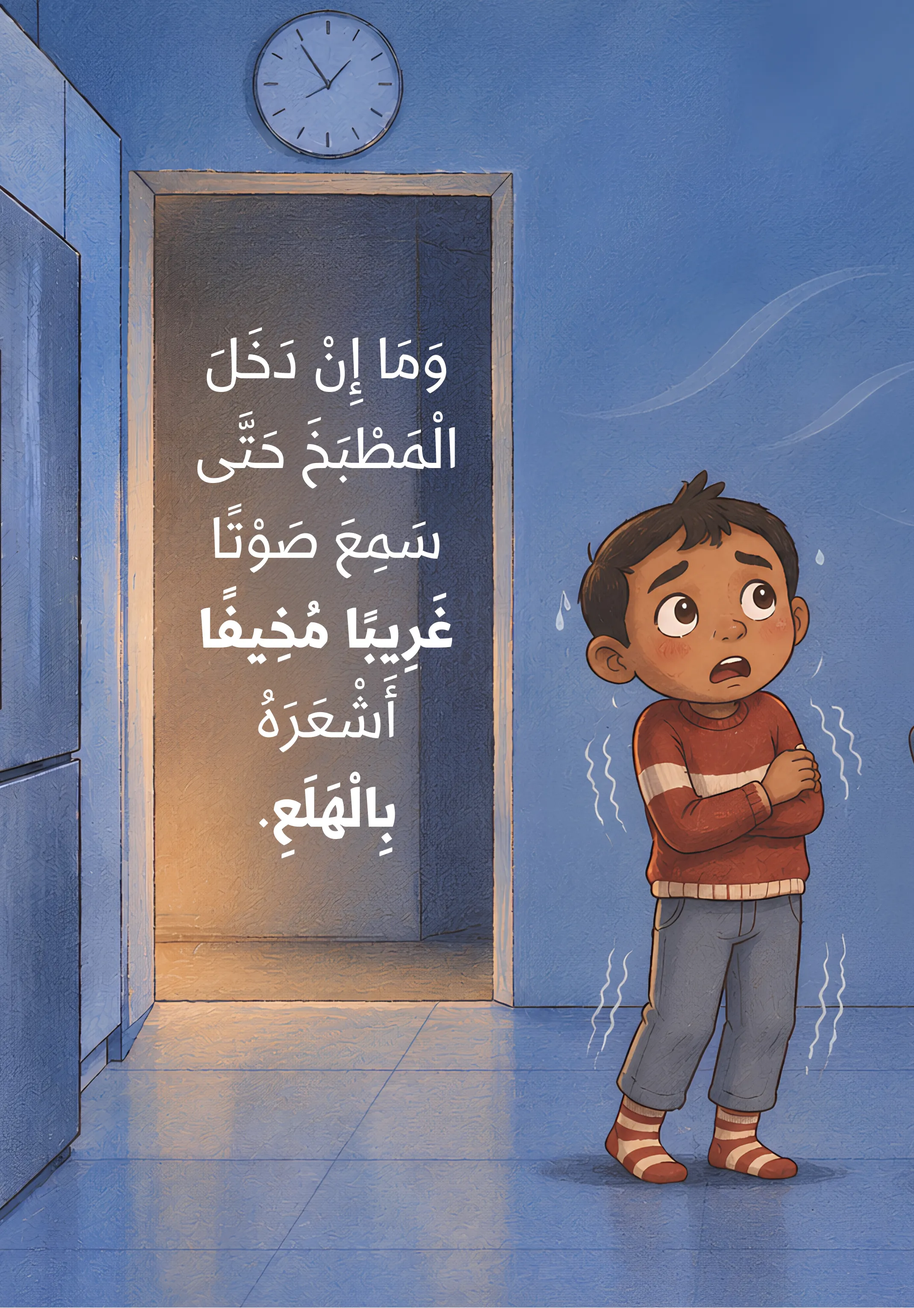
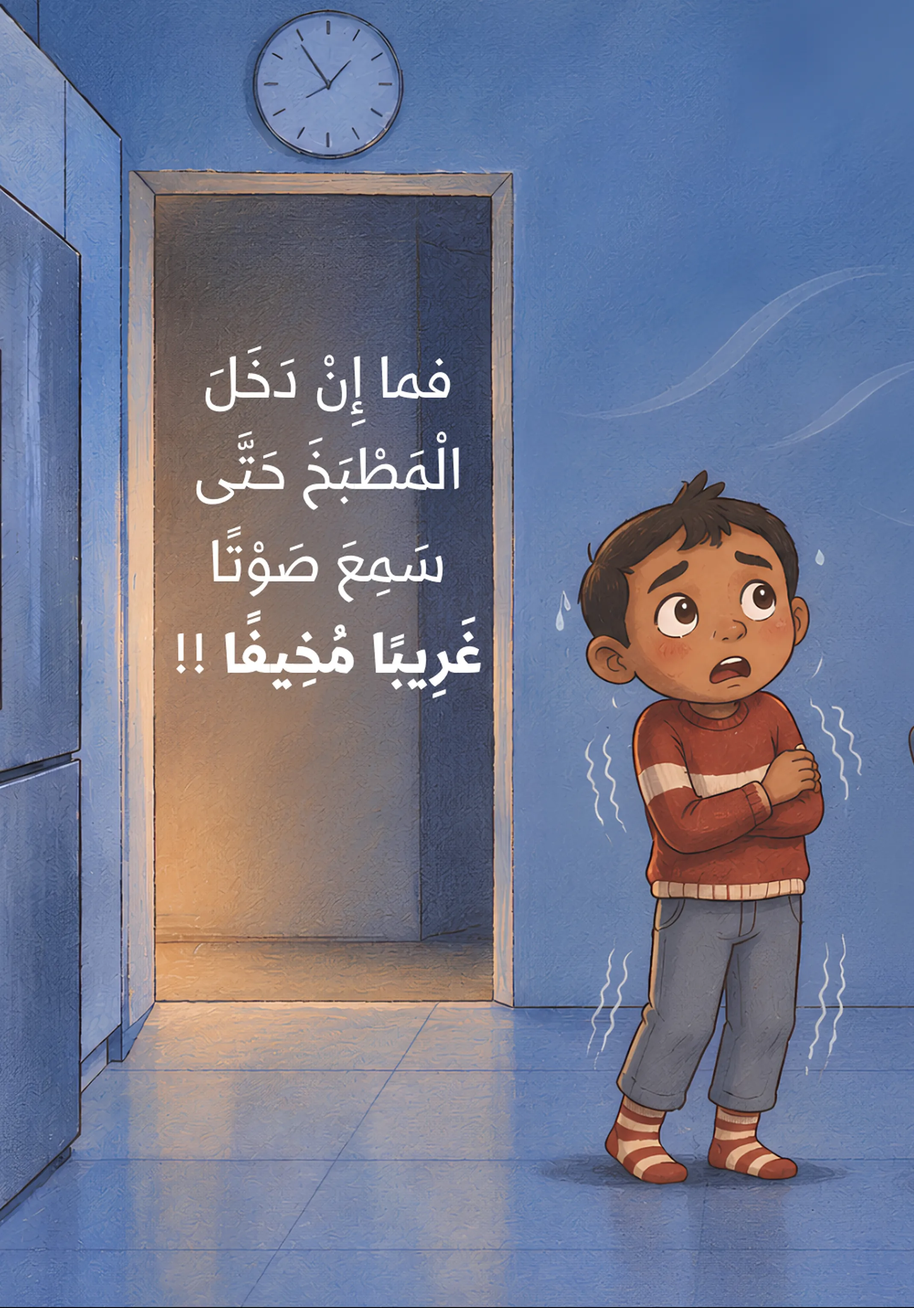
hawa: replace spreads 5, 12 and 13
Claude-Session: https://claude.ai/code/session_019WLqX5sKvm3Dpcbb9SuGPG

diff --git a/index.html b/index.html
@@ -585,7 +585,7 @@ footer{background:var(--sandbg)}
 /* ================= القصص =================
    لإضافة قصة: ضعي صور صفحاتها في books/<id>/ (01.webp, 02.webp … و cover.webp) ثم أضيفي سطرًا هنا. */
 const BOOKS = [
-  { id:"hawa",       title:"الهواء المتكلم",               author:"محمد بن حميد الحارثي", pages:28, seq:true, ratio:2140/3060, tag:"مغامرة", v:5,
+  { id:"hawa",       title:"الهواء المتكلم",               author:"محمد بن حميد الحارثي", pages:28, seq:true, ratio:2140/3060, tag:"مغامرة", v:6,
     blurb:"في مساء شتائي بارد سمع البراء صوتًا غريبًا في المطبخ، فأصابه الهلع وهرب. فما مصدر هذا الصوت المخيف؟ وهل يجد البراء الشجاعة ليكتشف السر؟",
     quote:"نَخافُ مِنَ الأَشْياءِ الَّتي لا نَعْرِفُها، وَحينَ نَعْرِفُها لا نَظَلُّ خائِفِين." },
   { id:"qilada",     title:"قلادة الحظ",                   author:"الأيهم بن سليم الخنجري", pages:32, seq:true, ratio:1011/1445, tag:"مغامرة",
